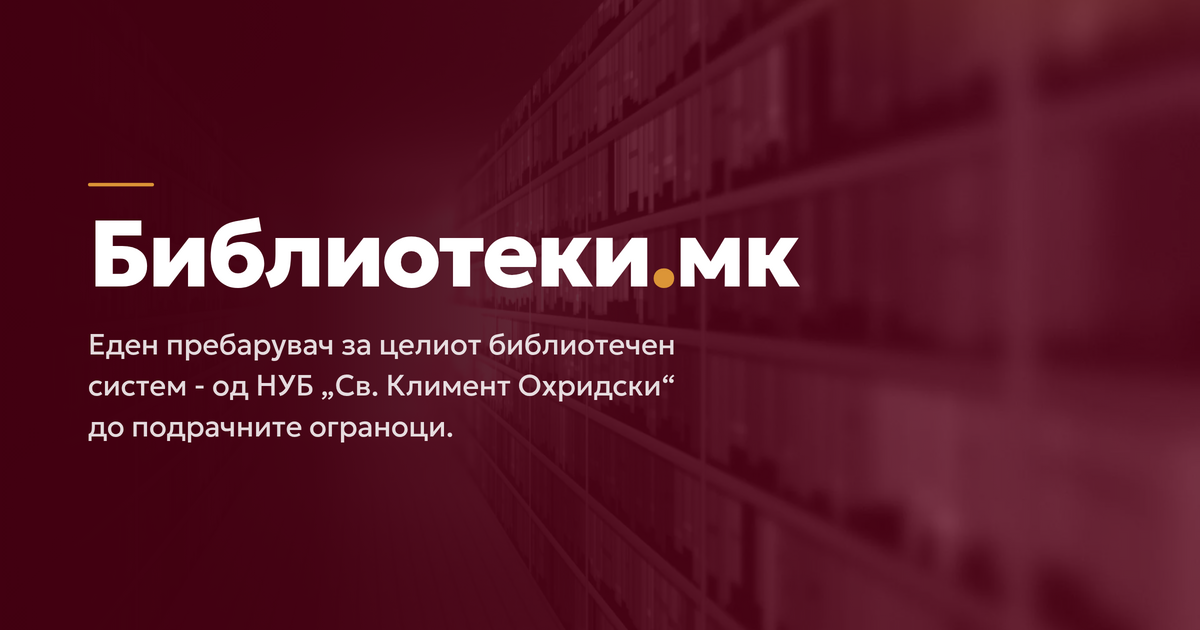
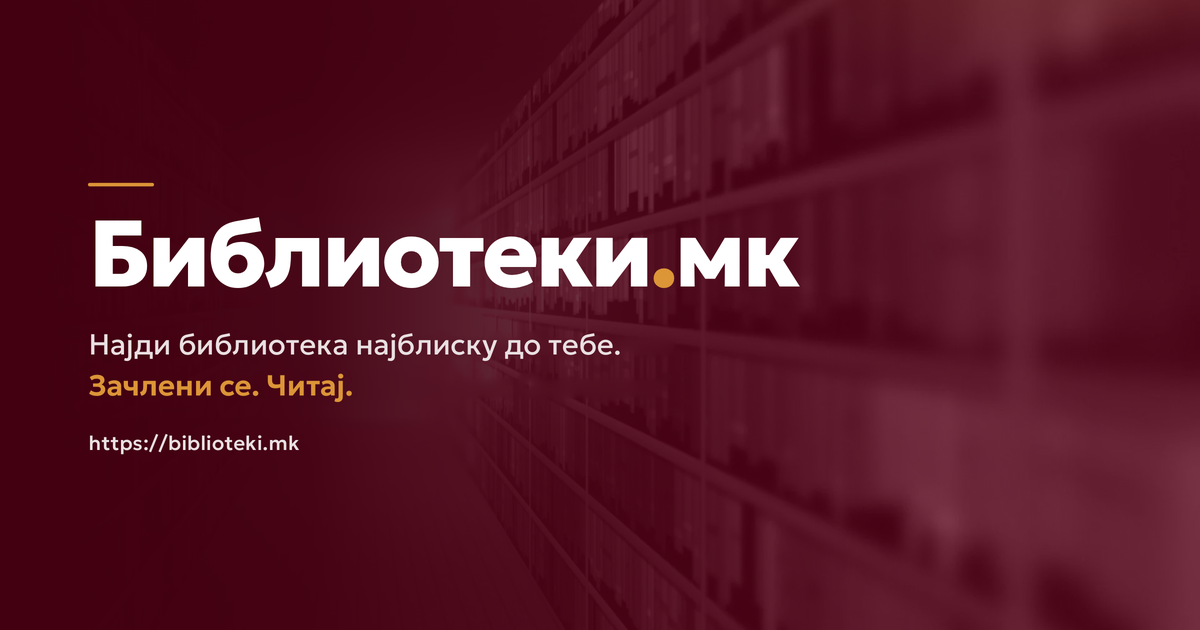
Add a generator for the social card artwork

Changed region(s): [[0.0617, 0.5127, 0.555, 0.6333], [0.0617, 0.6635, 0.37, 0.7238]]

diff --git a/scripts/gen-social-card.py b/scripts/gen-social-card.py
@@ -1,0 +1,251 @@
+#!/usr/bin/env python3
+"""
+Social card — generator.
+
+Produces the two raster assets the project hands to social platforms:
+
+    assets/social/facebook-post-2400x1260.png   post artwork (2400x1260)
+    app/opengraph-image.png                     link preview (1200x630)
+
+Both are the same composition: the second is the downscaled copy that every page points at
+through `app/opengraph-image.png`. Rendering them together is what keeps the pair in sync —
+before this script the 1200x630 file was resized by hand.
+
+What is baked in and what is drawn here:
+  * `assets/social/card-background.webp` is the plate (lossless WebP): the shelving
+    photograph, the maroon scrim, the gold rule and the „Библиотеки.мк“ wordmark. Those are
+    artwork — they change only when the brand does, and they sit on a photograph that cannot
+    be re-derived from code — so they stay in the plate.
+  * Everything below the wordmark is copy, and the copy is the part that gets rewritten
+    between campaigns. It is drawn here in Geologica, from the same `.woff2` files the site
+    ships, so the card cannot drift from the site's typography.
+
+Requirements: Pillow, plus fontTools and brotli (the latter two only to unpack the
+`.woff2` files the site already ships, into a temporary directory).
+
+    python3 scripts/gen-social-card.py           # regenerate both PNGs
+    python3 scripts/gen-social-card.py --check   # fail if the committed PNGs are stale
+
+The output is deterministic: the same plate, copy and fonts reproduce byte-identical PNGs,
+so a re-run that changes nothing produces no diff and `--check` is a real comparison.
+"""
+
+from __future__ import annotations
+
+import io
+import sys
+import tempfile
+from dataclasses import dataclass
+from pathlib import Path
+
+from PIL import Image, ImageDraw, ImageFont
+
+ROOT = Path(__file__).resolve().parents[1]
+PLATE = ROOT / "assets/social/card-background.webp"
+POST_OUT = ROOT / "assets/social/facebook-post-2400x1260.png"
+OG_OUT = ROOT / "app/opengraph-image.png"
+
+# ── Canvas ───────────────────────────────────────────────────────────────────
+W, H = 2400, 1260  # the plate's own size; the layout below is expressed in these pixels
+OG = (1200, 630)  # 1.91:1, the card every platform crops to
+
+# ── Palette ──────────────────────────────────────────────────────────────────
+# Sampled from the artwork: the gold is the dot in the wordmark and the rule above it;
+# the off-white is the original card's body copy, which is warm rather than pure white.
+GOLD = (220, 149, 55)
+OFFWHITE = (233, 224, 226)
+
+# ── Typography ───────────────────────────────────────────────────────────────
+# The site's font files are subsets: the Cyrillic one has no punctuation, the Latin one
+# has it — exactly the split the browser resolves through `unicode-range`. The renderer
+# below reproduces that fallback instead of shipping a second copy of the font.
+FONT_DIR = ROOT / "public/fonts"
+FONT_FILES = ["geologica-cyrillic.woff2", "geologica-latin.woff2"]
+
+# ── Copy ─────────────────────────────────────────────────────────────────────
+# One entry per line: the copy is short and where it breaks is a design decision, not
+# something the script should search for. `gap` is the baseline distance to the line above,
+# `tracking` adds space between glyphs (which also drops their kerning).
+X0 = 177  # left edge of the copy column, shared with the wordmark
+FIRST_BASELINE = 709  # where the original subtitle started, which fixes the title gap
+LEAD = 82  # line height, as in the original card
+SIZE = 58  # body size, as in the original card
+SAFE_RIGHT = 1400  # past this the photograph lightens and the copy loses contrast
+
+
+@dataclass(frozen=True)
+class Line:
+    text: str
+    weight: int
+    colour: tuple[int, int, int]
+    size: float = SIZE
+    tracking: float = 0.0
+    gap: float = LEAD  # baseline distance to the line above
+
+
+COPY = [
+    Line("Најди библиотека најблиску до тебе.", 400, OFFWHITE),
+    Line("Зачлени се. Читај.", 600, GOLD),
+    # the address sits on its own beat below the call to action: smaller, so it signs the
+    # card off rather than competing with it
+    Line("https://biblioteki.mk", 500, OFFWHITE, size=40, tracking=0.5, gap=109),
+]
+
+
+# ── Fonts ────────────────────────────────────────────────────────────────────
+def unpack_fonts(tmp: Path) -> list[tuple[str, set[int]]]:
+    """Unpack the site's woff2 subsets and return (ttf path, codepoints) pairs.
+
+    FreeType cannot read woff2, so the files are converted once per run. The codepoint
+    sets drive the fallback: each run is drawn with the first file that has its glyphs.
+    """
+    try:
+        from fontTools.ttLib import TTFont
+    except ImportError:  # pragma: no cover - environment guard
+        sys.exit("gen-social-card: needs fontTools (pip install fonttools brotli)")
+
+    faces = []
+    for name in FONT_FILES:
+        src = FONT_DIR / name
+        if not src.exists():
+            sys.exit(f"gen-social-card: missing {src.relative_to(ROOT)}")
+        try:
+            font = TTFont(src)
+        except ImportError:  # fontTools needs brotli to inflate woff2
+            sys.exit("gen-social-card: cannot unpack woff2 — is brotli installed?")
+        except Exception as err:  # corrupt or unsupported file: say what actually failed
+            sys.exit(f"gen-social-card: cannot read {src.relative_to(ROOT)}: {err}")
+        font.flavor = None
+        dst = tmp / (Path(name).stem + ".ttf")
+        font.save(dst)
+        faces.append((str(dst), set(font.getBestCmap())))
+    return faces
+
+
+class Typeface:
+    """Geologica at a given weight, falling back between the subsets it ships in."""
+
+    def __init__(self, faces: list[tuple[str, set[int]]]):
+        self.faces = faces
+        self._fonts: dict[tuple[int, int, float], ImageFont.FreeTypeFont] = {}
+
+    def font(self, face: int, weight: int, size: float = SIZE) -> ImageFont.FreeTypeFont:
+        key = (face, weight, size)
+        if key not in self._fonts:
+            f = ImageFont.truetype(self.faces[face][0], size)
+            f.set_variation_by_axes([weight])  # Geologica is variable: wght 100-900
+            self._fonts[key] = f
+        return self._fonts[key]
+
+    def runs(self, text: str) -> list[tuple[int, str]]:
+        """Split `text` into (face index, run) pairs, one face per run."""
+        out: list[tuple[int, str]] = []
+        for ch in text:
+            idx = next((i for i, (_, cmap) in enumerate(self.faces) if ord(ch) in cmap), None)
+            if idx is None:
+                sys.exit(f"gen-social-card: no glyph for {ch!r} in {FONT_FILES}")
+            if out and out[-1][0] == idx:
+                out[-1] = (idx, out[-1][1] + ch)
+            else:
+                out.append((idx, ch))
+        return out
+
+    def width(self, text: str, weight: int, size: float = SIZE, tracking: float = 0.0) -> float:
+        return self.layout(text, weight, size, tracking)[1]
+
+    def layout(
+        self, text: str, weight: int, size: float = SIZE, tracking: float = 0.0
+    ) -> tuple[list[tuple[float, ImageFont.FreeTypeFont, str]], float]:
+        """Return [(x offset, font, chunk)] and the final cursor.
+
+        Drawing and measuring go through the same pass, so what the safe-area checks
+        measure is exactly what ends up on the canvas.
+        """
+        chunks: list[tuple[float, ImageFont.FreeTypeFont, str]] = []
+        x = 0.0
+        for face, run in self.runs(text):
+            f = self.font(face, weight, size)
+            if tracking:
+                # letter-spaced runs are placed glyph by glyph; kerning is dropped on purpose
+                for ch in run:
+                    chunks.append((x, f, ch))
+                    x += f.getlength(ch) + tracking
+            else:
+                chunks.append((x, f, run))
+                x += f.getlength(run)
+        return chunks, x
+
+    def draw_line(
+        self,
+        d: ImageDraw.ImageDraw,
+        text: str,
+        x: float,
+        baseline: float,
+        weight: int,
+        colour: tuple[int, int, int],
+        size: float = SIZE,
+        tracking: float = 0.0,
+    ) -> None:
+        chunks, _ = self.layout(text, weight, size, tracking)
+        for dx, f, chunk in chunks:
+            d.text((x + dx, baseline), chunk, font=f, fill=colour, anchor="ls")
+
+
+# ── Compose ──────────────────────────────────────────────────────────────────
+def main(argv: list[str]) -> None:
+    check = "--check" in argv
+    unknown = [a for a in argv if a != "--check"]
+    if unknown:
+        sys.exit(f"gen-social-card: unknown argument {unknown[0]!r}")
+
+    if not PLATE.exists():
+        sys.exit(f"gen-social-card: missing plate {PLATE.relative_to(ROOT)}")
+    if not COPY:
+        sys.exit("gen-social-card: COPY is empty, there is nothing to draw")
+
+    plate = Image.open(PLATE).convert("RGB")
+    if plate.size != (W, H):
+        sys.exit(f"gen-social-card: plate is {plate.size}, expected {(W, H)}")
+
+    d = ImageDraw.Draw(plate)
+    right = 0.0
+    baseline = FIRST_BASELINE
+    # the temporary directory has to outlive the drawing: the unpacked fonts are loaded
+    # lazily, per face, weight and size
+    with tempfile.TemporaryDirectory() as tmp:
+        type_ = Typeface(unpack_fonts(Path(tmp)))
+        for i, line in enumerate(COPY):
+            if i:
+                baseline += line.gap
+            type_.draw_line(d, line.text, X0, baseline, line.weight, line.colour, line.size, line.tracking)
+            right = max(right, X0 + type_.width(line.text, line.weight, line.size, line.tracking))
+
+    last = COPY[-1]
+    if right > SAFE_RIGHT:
+        sys.exit(f"gen-social-card: copy reaches x={right:.0f}, past the safe area ({SAFE_RIGHT})")
+    if baseline + last.size * 0.25 > H:  # the deepest descender sits ~0.2em below the baseline
+        sys.exit("gen-social-card: copy runs off the bottom of the card")
+
+    outputs = [(POST_OUT, plate), (OG_OUT, plate.resize(OG, Image.LANCZOS))]
+
+    if check:  # verify the committed files without touching them
+        for path, image in outputs:
+            buffer = io.BytesIO()
+            image.save(buffer, "PNG", optimize=True)
+            if not path.exists():
+                sys.exit(f"gen-social-card: {path.relative_to(ROOT)} is missing")
+            if path.read_bytes() != buffer.getvalue():
+                sys.exit(f"gen-social-card: {path.relative_to(ROOT)} is stale — run npm run social:build")
+        print("social card: up to date")
+        return
+
+    for path, image in outputs:
+        path.parent.mkdir(parents=True, exist_ok=True)
+        image.save(path, optimize=True)
+        kb = path.stat().st_size / 1024
+        print(f"{path.relative_to(ROOT)}: {image.size[0]}x{image.size[1]}, {kb:.0f} KB")
+    print(f"  copy: {len(COPY)} lines, widest x={right:.0f} (safe {SAFE_RIGHT}), last baseline y={baseline}")
+
+
+if __name__ == "__main__":
+    main(sys.argv[1:])

diff --git a/README.md b/README.md
@@ -35,6 +35,9 @@ in a fixed order of precedence.
 
 Node.js >= 20.9 (CI uses Node 24) and npm.
 
+The social card generator also needs Python 3 with Pillow, plus fontTools and brotli to unpack
+the `.woff2` files. Nothing in `npm run check` or `npm run build` depends on it.
+
 ## Getting started
 
 ```bash
@@ -53,6 +56,8 @@ npm run dev          # http://localhost:3000
 | `npm run data:test` | Run the data tests (`node:test`). |
 | `npm run typecheck` | `tsc --noEmit`. |
 | `npm run check` | `data:check` + tests + typecheck — the suite CI runs. |
+| `npm run social:build` | Regenerate the social card: `assets/social/facebook-post-2400x1260.png` and `app/opengraph-image.png`. |
+| `npm run social:check` | Fail if those two PNGs are out of date with the plate and the copy. |
 
 ## Data pipeline
 
@@ -77,7 +82,7 @@ Do not hand-edit `src/data/` or `public/data/` — change the workbook or the pi
 app/            App Router routes (all statically exported)
 components/     shared UI (header, footer, cards, directory, maps, analytics)
 lib/            data access, SEO/JSON-LD, formatting, opening hours, link helpers
-scripts/        workbook → JSON/CSV pipeline
+scripts/        workbook → JSON/CSV pipeline, image generators
 src/data/       generated data, committed
 src/lib/        schemas and taxonomy
 public/data/    published JSON/CSV exports

diff --git a/AGENTS.md b/AGENTS.md
@@ -118,8 +118,11 @@ Rules:
   `app/opengraph-image.alt.txt` next to it. Routes that return their own `openGraph` from
   `generateMetadata` must attach it as `images: [OG_IMAGE]` (`lib/seo.tsx`) — Next replaces a
   parent's `openGraph` instead of merging it, so the file-convention image is not inherited.
-  `assets/social/facebook-post-2400x1260.png` is the source artwork; keep the 1200×630 copy
-  in sync when it changes.
+  `assets/social/card-background.webp` is the artwork plate — photograph, scrim, gold rule and
+  the wordmark; the copy below the wordmark is drawn by `scripts/gen-social-card.py`, which
+  writes `assets/social/facebook-post-2400x1260.png` and `app/opengraph-image.png` in one go
+  (`npm run social:build`, `--check` to verify the committed files). Change the copy in the
+  script and regenerate; do not hand-edit either PNG.
 - Add every new indexable route to `app/sitemap.ts`; keep `noindex` routes out. `app/robots.ts`
   disallows `/data/`.
 - `public/_headers` sets the Open Graph image MIME type; `public/_redirects` keeps the legacy
